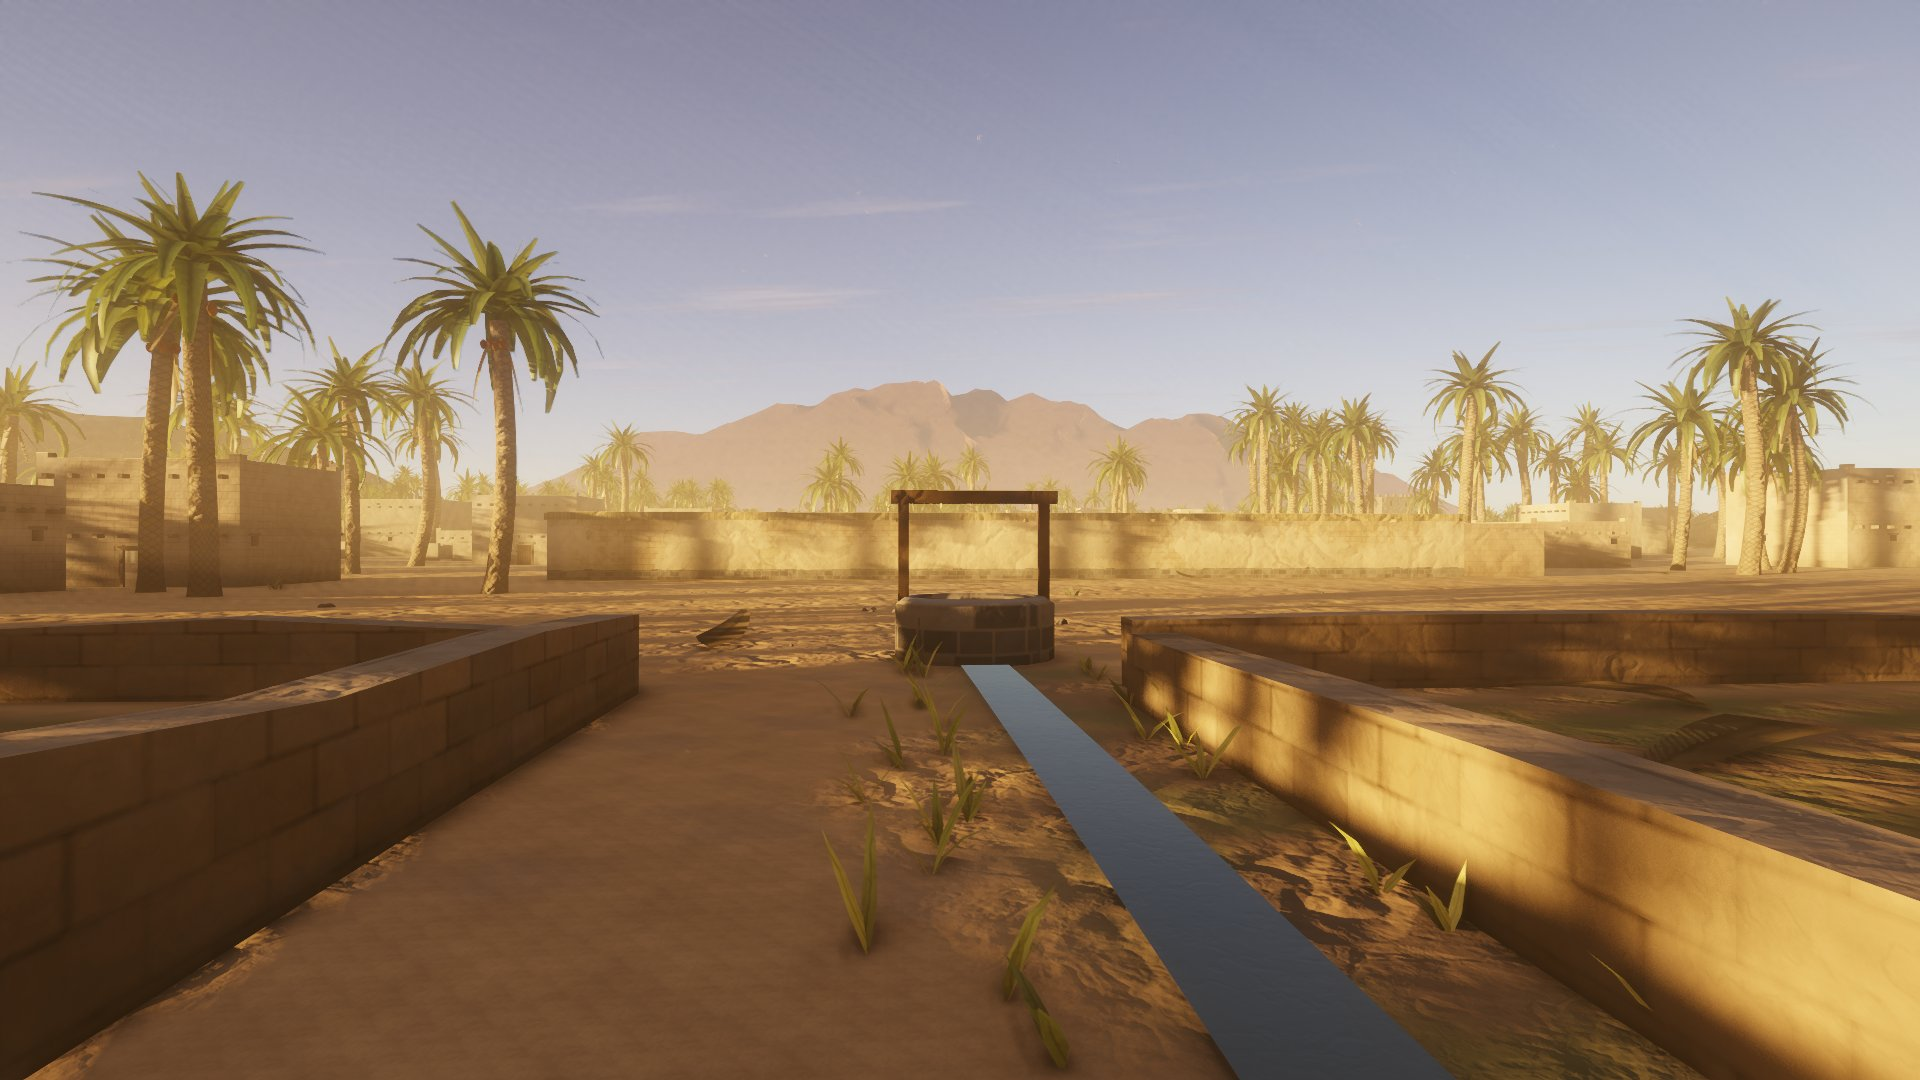
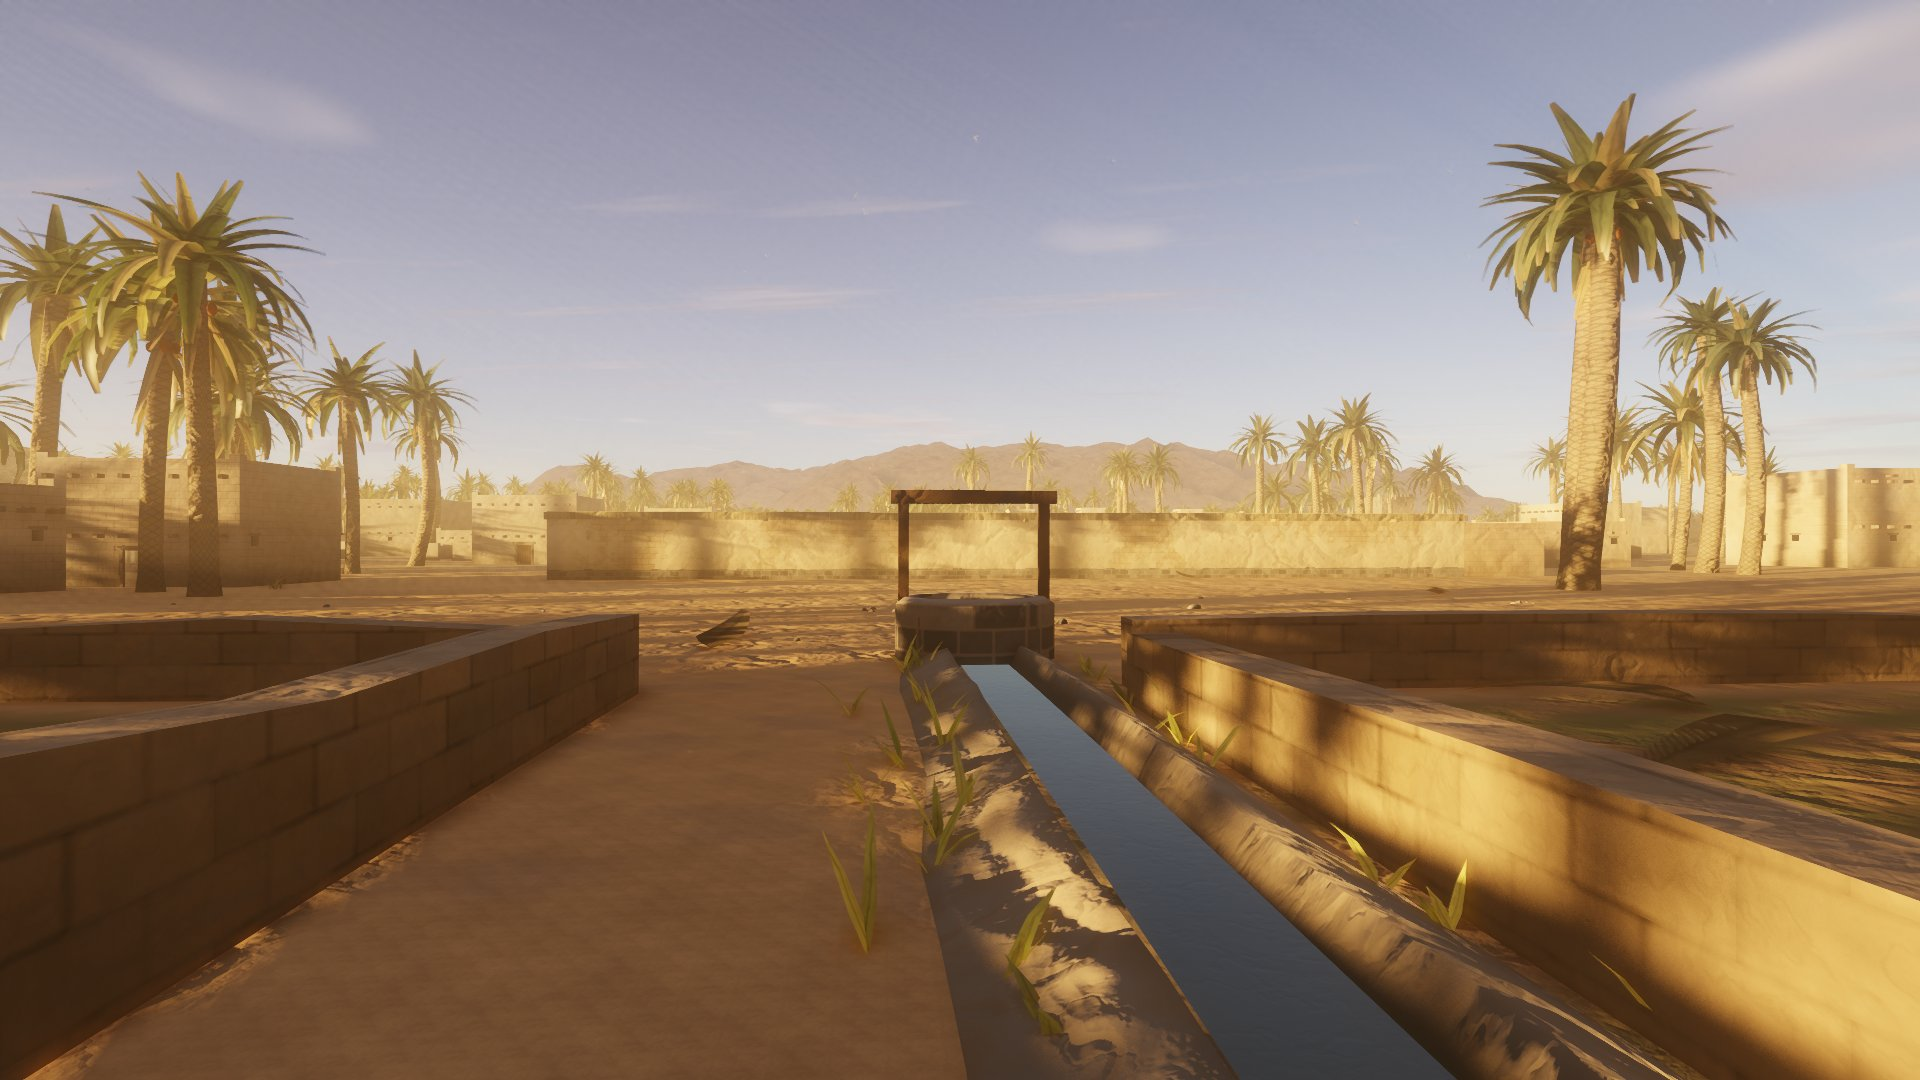
Realism stages 2+3 shipped by Moey's decision (prayer-hall critic major open): README screenshots from the shipped build, NOTES state

diff --git a/NOTES.md b/NOTES.md
@@ -30,6 +30,11 @@ Built with the `worldsmith` skill (`/home/moey/.shared/skills/worldsmith`), star
     calmer ceiling; leaflets hanging through the mat; moon patches dropped (thin streaks); court mottle at 3-14 m
     scale (the 0.2 m scale and the court's sand normals both showed a tiled swirl).
   - Loop 4 (86636bf): night court bounce into the hall and onto the ceiling; moonlit grade cooler and bluer.
+- **2026-11-19 ~10:00 AEDT: stages 2 and 3 SHIPPED by Moey's decision, with the prayer-hall critic major still
+  open** (his answer, relayed by the coordinating session: "Madinah First Years 2+3"). main fast-forwarded
+  6ad6df1..46406a5 (realism-s3 as built, loop 4), live page byte-identical to index.html (sha256 571123f6...).
+  README screenshots retaken at golden hour from the shipped index.html (verify/ship-s3/t1, 0 console errors).
+  Open majors carried live: the prayer hall (critic round 5), plus the stage-1 items in verify/s3-hall-critic.md.
 - Next if the hall is resumed (from round 5, still unaddressed): the ceiling needs relief, not albedo (sagging
   bundles between joists as geometry, light leaking between them); trunks need per-column pattern scale, contrast
   and some unscarred trunks (one lattice on every trunk reads as a decal); the floor needs grain at the trunks'

diff --git a/README.md b/README.md
@@ -12,7 +12,7 @@ Date-palm groves inside mud-brick garden walls, wells and earthen ditches, flat-
 tower-houses, the black lava of the harrat, a sandy wadi with acacias, and at the heart of it a very simple
 mosque: mud-brick walls on a stone footing, an open earth courtyard, and a prayer hall of palm-trunk columns under
 a roof of palm fronds. Mount Uhud closes the northern horizon. Everything is made by code: no images, no 3D models,
-no sound files. The whole world is **one HTML file** of about 100 KB.
+no sound files. The whole world is **one HTML file** of about 145 KB.
 
 **This is an artistic reconstruction, not an exact one.** The sources agree on the materials and the rough size of
 the first mosque, and on the lava fields, the wadis and Uhud around the oasis. Most other details are informed guesses:
